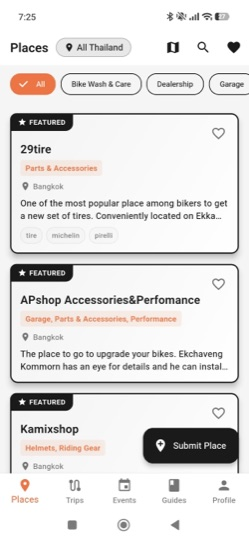
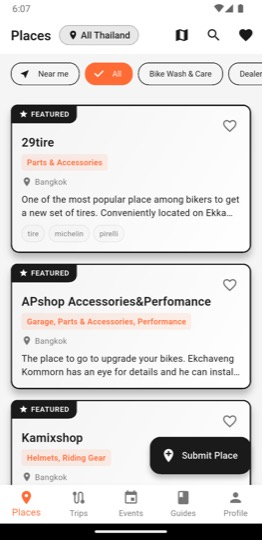
feat: refresh app screenshots, keep captions on mobile (GH #13)
Replace the low-res 249px phone mockups with fresh 262x540 captures
(Places, Trips, Events, Guides, Favorites). The old "Home" slot is now
the Favorites screen; screen-home is renamed to screen-favorites and all
references (hero, preload, scroller) updated.

The full-device screenshots (18.5:9) are letterboxed into the elongated
phone frame with object-fit:contain + a white screen background, so the
app's top-left screen titles are never cropped.

Fixes GH #13 item 3: captions lived in a separate .screens__caption-row
that was display:none below 980px, so mobile users swiped through
unlabeled mockups. Each caption now sits in a <figcaption> inside its own
<figure class="screen"> and survives the breakpoint.

Changed region(s): [[0.0, 0.0, 1.0, 1.0]]

diff --git a/index.html b/index.html
@@ -30,7 +30,7 @@
 <meta name="twitter:image" content="https://thailandbiker.club/images/og-cover.jpg">
 
 <!-- Preload LCP hero image -->
-<link rel="preload" as="image" href="images/screen-home.webp" type="image/webp">
+<link rel="preload" as="image" href="images/screen-favorites.webp" type="image/webp">
 
 <!-- Favicon -->
 <link rel="icon" href="/favicon.ico" sizes="32x32 16x16" type="image/x-icon">
@@ -340,7 +340,7 @@
     height: 100%;
     border-radius: 32px;
     overflow: hidden;
-    background: #f0f0f0;
+    background: #fff;
     position: relative;
   }
   .phone--sm { width: 220px; border-radius: 34px; padding: 7px; }
@@ -446,33 +446,35 @@
     display: grid;
     grid-template-columns: repeat(5, 1fr);
     gap: 24px;
-    align-items: end;
-    padding: 8px 0 32px;
+    align-items: start;
+    padding: 40px 0 64px;
   }
-  .screens__grid .phone:nth-child(1) { transform: translateY(0); }
-  .screens__grid .phone:nth-child(2) { transform: translateY(40px); }
-  .screens__grid .phone:nth-child(3) { transform: translateY(-20px); }
-  .screens__grid .phone:nth-child(4) { transform: translateY(50px); }
-  .screens__grid .phone:nth-child(5) { transform: translateY(10px); }
-  .screens__grid .phone {
+  .screens__grid .screen {
+    display: flex;
+    flex-direction: column;
+    align-items: center;
     width: 100%;
     max-width: 240px;
     margin: 0 auto;
     transition: transform 400ms cubic-bezier(.2,.8,.2,1);
   }
-  .screens__grid .phone:hover {
-    transform: translateY(-8px) !important;
+  .screens__grid .screen:nth-child(1) { transform: translateY(0); }
+  .screens__grid .screen:nth-child(2) { transform: translateY(40px); }
+  .screens__grid .screen:nth-child(3) { transform: translateY(-20px); }
+  .screens__grid .screen:nth-child(4) { transform: translateY(50px); }
+  .screens__grid .screen:nth-child(5) { transform: translateY(10px); }
+  .screens__grid .phone {
+    width: 100%;
+    transition: transform 400ms cubic-bezier(.2,.8,.2,1);
   }
-  .screens__caption-row {
-    display: grid;
-    grid-template-columns: repeat(5, 1fr);
-    gap: 24px;
-    margin-top: 36px;
+  .screens__grid .screen:hover .phone {
+    transform: translateY(-8px);
   }
   .screen-caption {
     text-align: center;
     font-size: 13px;
     color: var(--text-muted);
+    margin-top: 24px;
   }
   .screen-caption b {
     color: var(--dark);
@@ -650,9 +652,11 @@
     .cta-banner__inner { grid-template-columns: 1fr; gap: 32px; }
     .footer__top { grid-template-columns: 1fr; gap: 24px; }
     .footer__links { justify-content: flex-start; }
-    .screens__grid { grid-template-columns: repeat(5, minmax(180px, 1fr)); overflow-x: auto; padding: 8px var(--pad-x) 32px; margin: 0 calc(var(--pad-x) * -1); scroll-snap-type: x mandatory; }
-    .screens__grid .phone { scroll-snap-align: center; min-width: 200px; }
-    .screens__caption-row { display: none; }
+    .screens__grid { grid-template-columns: repeat(5, minmax(180px, 1fr)); overflow-x: auto; padding: 8px var(--pad-x) 32px; margin: 0 calc(var(--pad-x) * -1); scroll-snap-type: x mandatory; align-items: start; }
+    /* :nth-child(n) matches all yet still outweighs the per-index stagger rules above */
+    .screens__grid .screen:nth-child(n) { scroll-snap-align: center; min-width: 200px; transform: none; }
+    .screens__grid .screen:hover .phone { transform: none; }
+    .screen-caption { margin-top: 20px; }
   }
   @media (max-width: 640px) {
     .nav__links { display: none; }
@@ -805,7 +809,7 @@
         <div class="phone__screen">
           <picture>
             <source srcset="images/screen-places.webp" type="image/webp">
-            <img src="images/screen-places.jpg" alt="Places screen" width="249" height="540" loading="lazy" style="width:100%;height:100%;object-fit:cover;">
+            <img src="images/screen-places.jpg" alt="Places screen" width="262" height="540" loading="lazy" style="width:100%;height:100%;object-fit:contain;object-position:center bottom;">
           </picture>
         </div>
       </div>
@@ -813,8 +817,8 @@
         <div class="phone__notch"></div>
         <div class="phone__screen">
           <picture>
-            <source srcset="images/screen-home.webp" type="image/webp">
-            <img src="images/screen-home.jpg" alt="ThailandBiker app home screen" width="249" height="540" fetchpriority="high" style="width:100%;height:100%;object-fit:cover;">
+            <source srcset="images/screen-favorites.webp" type="image/webp">
+            <img src="images/screen-favorites.jpg" alt="ThailandBiker app favorites screen" width="262" height="540" fetchpriority="high" style="width:100%;height:100%;object-fit:contain;object-position:center bottom;">
           </picture>
         </div>
       </div>
@@ -823,7 +827,7 @@
         <div class="phone__screen">
           <picture>
             <source srcset="images/screen-trips.webp" type="image/webp">
-            <img src="images/screen-trips.jpg" alt="Trips screen" width="249" height="540" loading="lazy" style="width:100%;height:100%;object-fit:cover;">
+            <img src="images/screen-trips.jpg" alt="Trips screen" width="262" height="540" loading="lazy" style="width:100%;height:100%;object-fit:contain;object-position:center bottom;">
           </picture>
         </div>
       </div>
@@ -905,59 +909,66 @@
     </div>
 
     <div class="screens__grid">
-      <div class="phone fade-up" data-delay="1">
-        <div class="phone__notch"></div>
-        <div class="phone__screen">
-          <picture>
-            <source srcset="images/screen-home.webp" type="image/webp">
-            <img src="images/screen-home.jpg" alt="Home screen" width="249" height="540" loading="lazy" style="width:100%;height:100%;object-fit:cover;">
-          </picture>
+      <figure class="screen fade-up" data-delay="1">
+        <div class="phone">
+          <div class="phone__notch"></div>
+          <div class="phone__screen">
+            <picture>
+              <source srcset="images/screen-places.webp" type="image/webp">
+              <img src="images/screen-places.jpg" alt="Places screen" width="262" height="540" loading="lazy" style="width:100%;height:100%;object-fit:contain;object-position:center bottom;">
+            </picture>
+          </div>
         </div>
-      </div>
-      <div class="phone fade-up" data-delay="2">
-        <div class="phone__notch"></div>
-        <div class="phone__screen">
-          <picture>
-            <source srcset="images/screen-places.webp" type="image/webp">
-            <img src="images/screen-places.jpg" alt="Places screen" width="249" height="540" loading="lazy" style="width:100%;height:100%;object-fit:cover;">
-          </picture>
+        <figcaption class="screen-caption"><b>Places</b>Browse and filter</figcaption>
+      </figure>
+      <figure class="screen fade-up" data-delay="2">
+        <div class="phone">
+          <div class="phone__notch"></div>
+          <div class="phone__screen">
+            <picture>
+              <source srcset="images/screen-trips.webp" type="image/webp">
+              <img src="images/screen-trips.jpg" alt="Trips screen" width="262" height="540" loading="lazy" style="width:100%;height:100%;object-fit:contain;object-position:center bottom;">
+            </picture>
+          </div>
         </div>
-      </div>
-      <div class="phone fade-up" data-delay="3">
-        <div class="phone__notch"></div>
-        <div class="phone__screen">
-          <picture>
-            <source srcset="images/screen-trips.webp" type="image/webp">
-            <img src="images/screen-trips.jpg" alt="Trips screen" width="249" height="540" loading="lazy" style="width:100%;height:100%;object-fit:cover;">
-          </picture>
+        <figcaption class="screen-caption"><b>Trips</b>Reviews &amp; multi-day loops</figcaption>
+      </figure>
+      <figure class="screen fade-up" data-delay="3">
+        <div class="phone">
+          <div class="phone__notch"></div>
+          <div class="phone__screen">
+            <picture>
+              <source srcset="images/screen-events.webp" type="image/webp">
+              <img src="images/screen-events.jpg" alt="Events screen" width="262" height="540" loading="lazy" style="width:100%;height:100%;object-fit:contain;object-position:center bottom;">
+            </picture>
+          </div>
         </div>
-      </div>
-      <div class="phone fade-up" data-delay="4">
-        <div class="phone__notch"></div>
-        <div class="phone__screen">
-          <picture>
-            <source srcset="images/screen-events.webp" type="image/webp">
-            <img src="images/screen-events.jpg" alt="Events screen" width="249" height="540" loading="lazy" style="width:100%;height:100%;object-fit:cover;">
-          </picture>
+        <figcaption class="screen-caption"><b>Events</b>What's on this month</figcaption>
+      </figure>
+      <figure class="screen fade-up" data-delay="4">
+        <div class="phone">
+          <div class="phone__notch"></div>
+          <div class="phone__screen">
+            <picture>
+              <source srcset="images/screen-guides.webp" type="image/webp">
+              <img src="images/screen-guides.jpg" alt="Guides screen" width="262" height="540" loading="lazy" style="width:100%;height:100%;object-fit:contain;object-position:center bottom;">
+            </picture>
+          </div>
         </div>
-      </div>
-      <div class="phone fade-up" data-delay="4">
-        <div class="phone__notch"></div>
-        <div class="phone__screen">
-          <picture>
-            <source srcset="images/screen-guides.webp" type="image/webp">
-            <img src="images/screen-guides.jpg" alt="Guides screen" width="249" height="540" loading="lazy" style="width:100%;height:100%;object-fit:cover;">
-          </picture>
+        <figcaption class="screen-caption"><b>Guides</b>Practical reading</figcaption>
+      </figure>
+      <figure class="screen fade-up" data-delay="5">
+        <div class="phone">
+          <div class="phone__notch"></div>
+          <div class="phone__screen">
+            <picture>
+              <source srcset="images/screen-favorites.webp" type="image/webp">
+              <img src="images/screen-favorites.jpg" alt="Favorites screen" width="262" height="540" loading="lazy" style="width:100%;height:100%;object-fit:contain;object-position:center bottom;">
+            </picture>
+          </div>
         </div>
-      </div>
-    </div>
-
-    <div class="screens__caption-row fade-up">
-      <div class="screen-caption"><b>Home</b>Your saved + nearby</div>
-      <div class="screen-caption"><b>Places</b>Browse and filter</div>
-      <div class="screen-caption"><b>Trips</b>Route detail + map</div>
-      <div class="screen-caption"><b>Events</b>What's on this month</div>
-      <div class="screen-caption"><b>Guides</b>Practical reading</div>
+        <figcaption class="screen-caption"><b>Favorites</b>Save places &amp; routes</figcaption>
+      </figure>
     </div>
   </div>
 </section>

diff --git a/README.md b/README.md
@@ -29,14 +29,14 @@ In [Conductor](https://conductor.build) workspaces, the Run button starts the sa
 
 ## App Screenshots
 
-Phone screenshots live in `images/` as matched pairs: `screen-*.jpg` (fallback) and `screen-*.webp` (served first via `<picture>`). Current set: `home`, `places`, `trips`, `events`, `guides`.
+Phone screenshots live in `images/` as matched pairs: `screen-*.jpg` (fallback) and `screen-*.webp` (served first via `<picture>`). Current set: `places`, `trips`, `events`, `guides`, `favorites`.
 
-To refresh one, drop a full-resolution portrait screenshot in and regenerate both files:
+To refresh one, drop a full-resolution portrait screenshot in and regenerate both files (needs `cwebp` — `brew install webp`):
 
 ```bash
-name=screen-home   # one of: screen-{home,places,trips,events,guides}
-sips -Z 540 -s formatOptions 82 your-screenshot.jpg --out images/$name.jpg
-sips -s format webp -s formatOptions 80 images/$name.jpg --out images/$name.webp
+name=screen-places   # one of: screen-{places,trips,events,guides,favorites}
+sips -s format jpeg -s formatOptions 72 -Z 540 your-screenshot.png --out images/$name.jpg
+cwebp -q 80 images/$name.jpg -o images/$name.webp
 ```
 
 `images/og-cover.jpg` is the social share image (1200×630).
